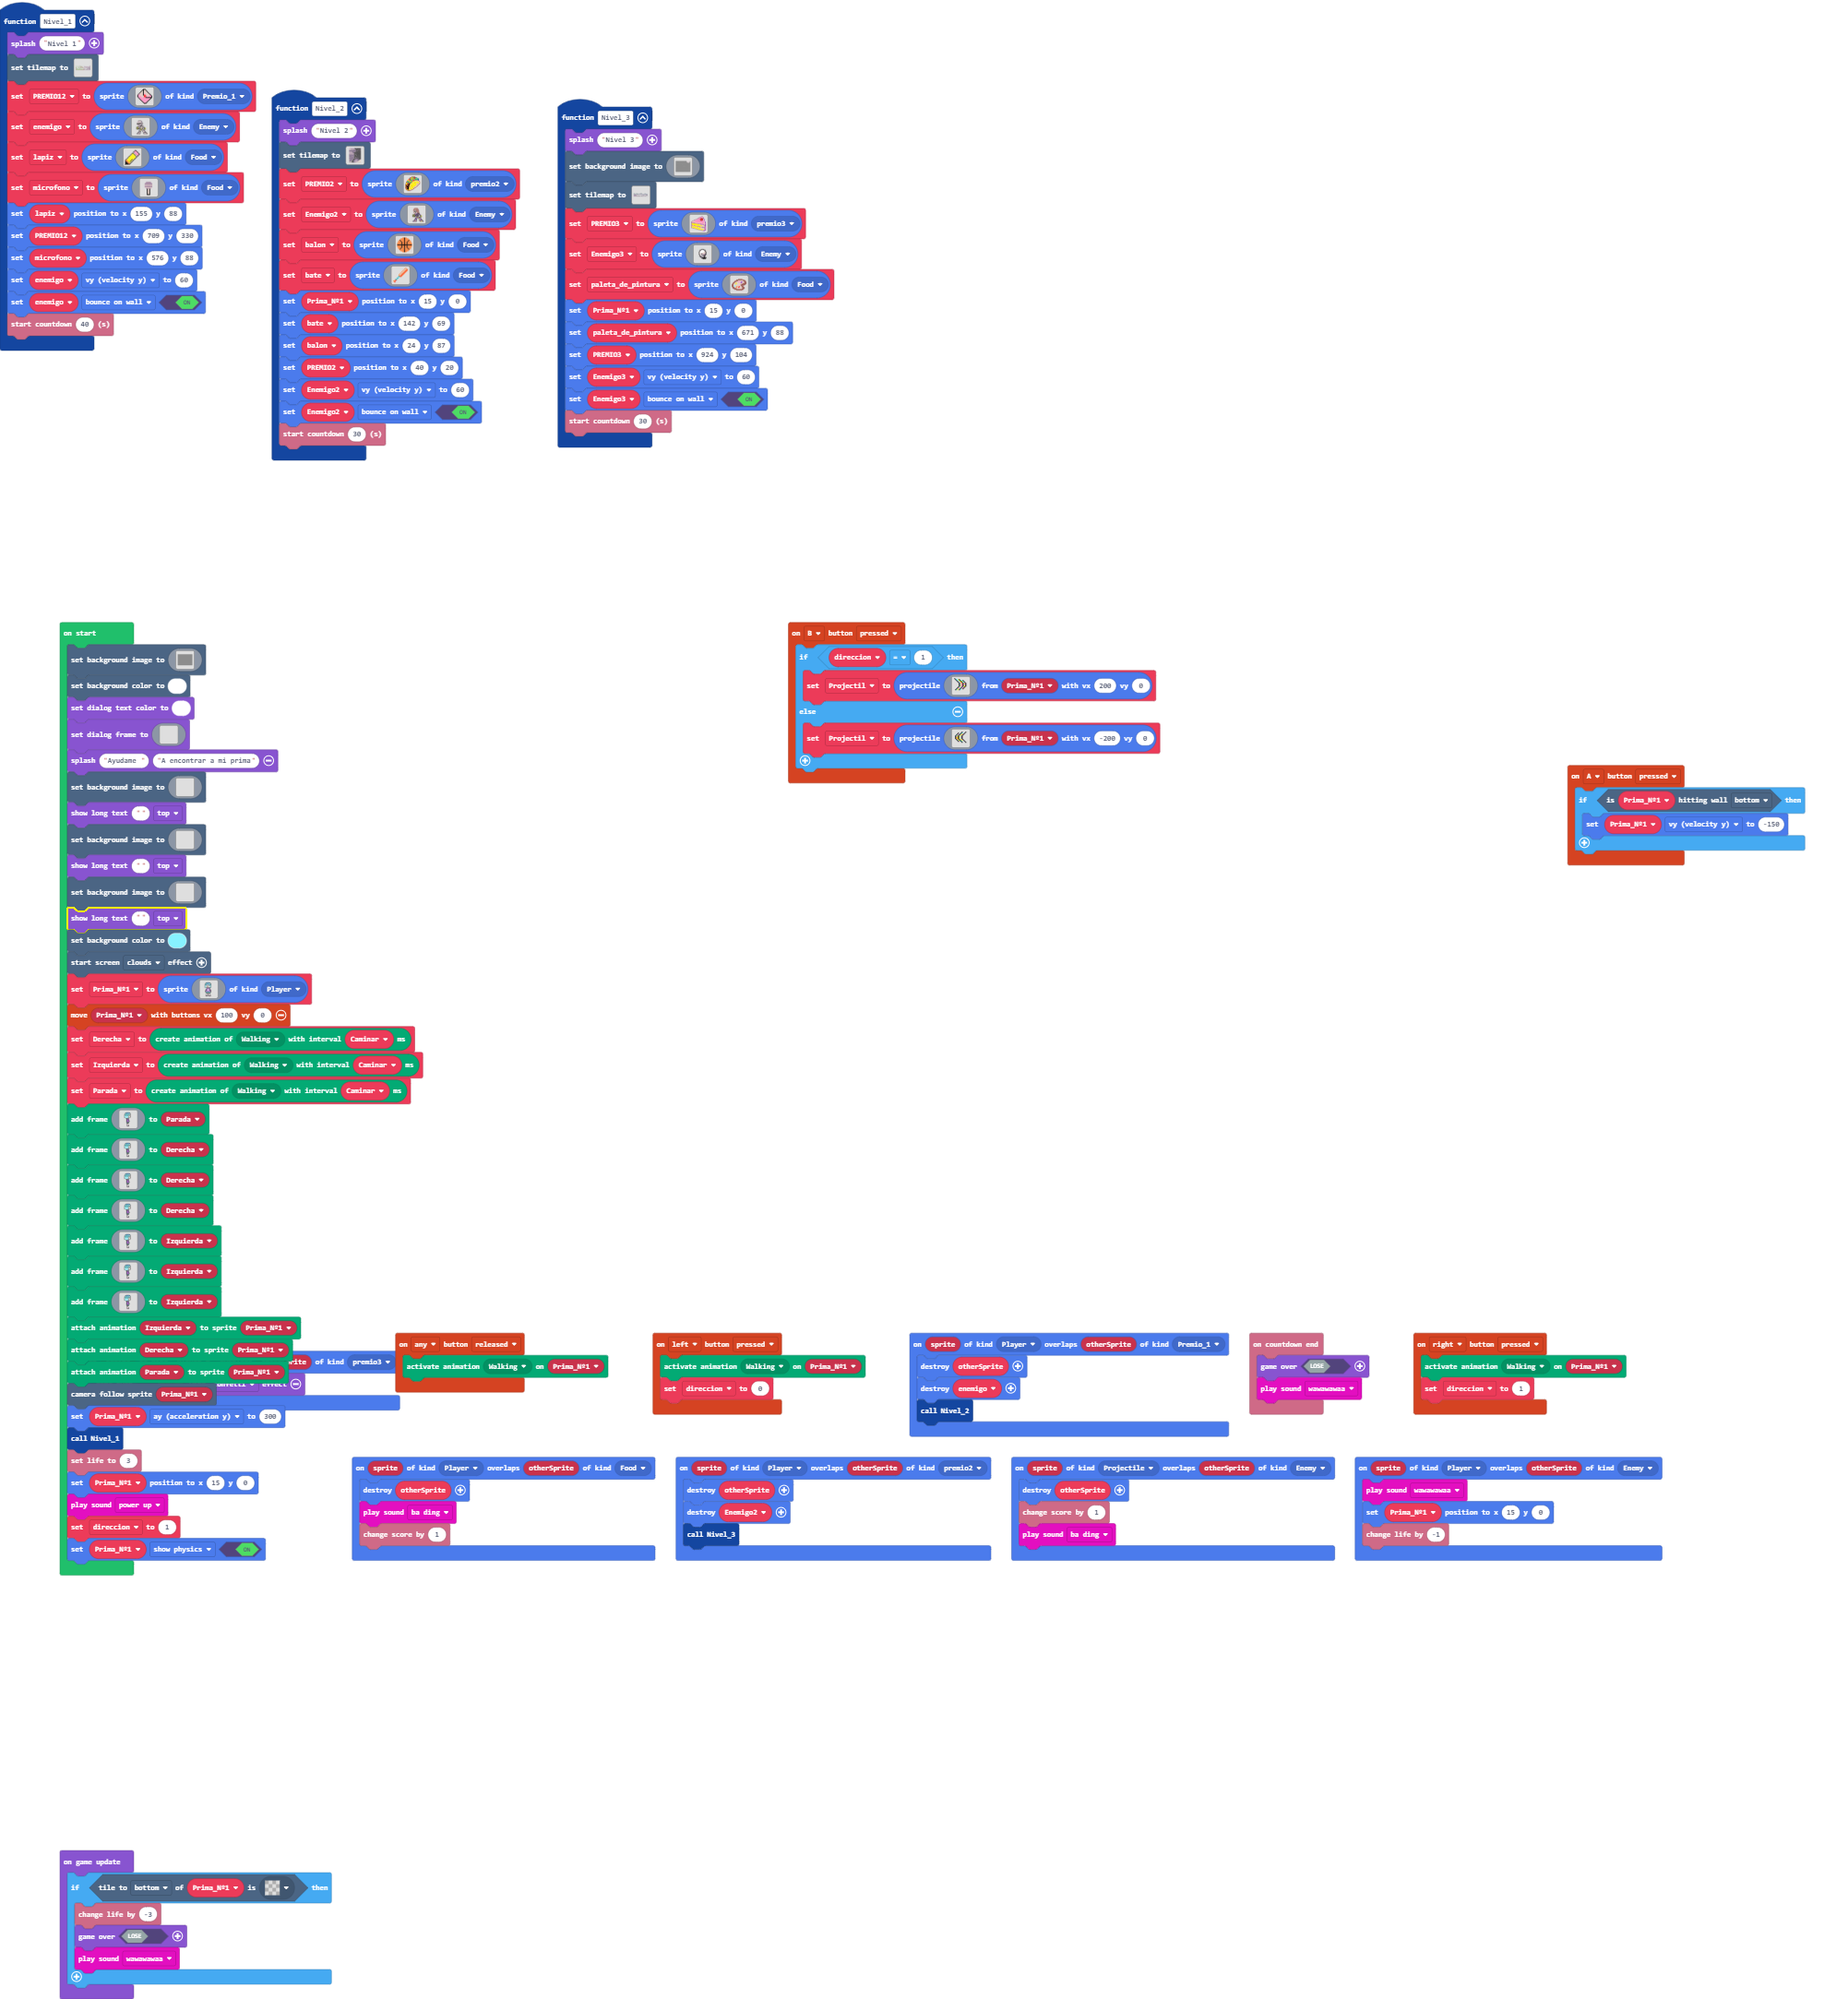
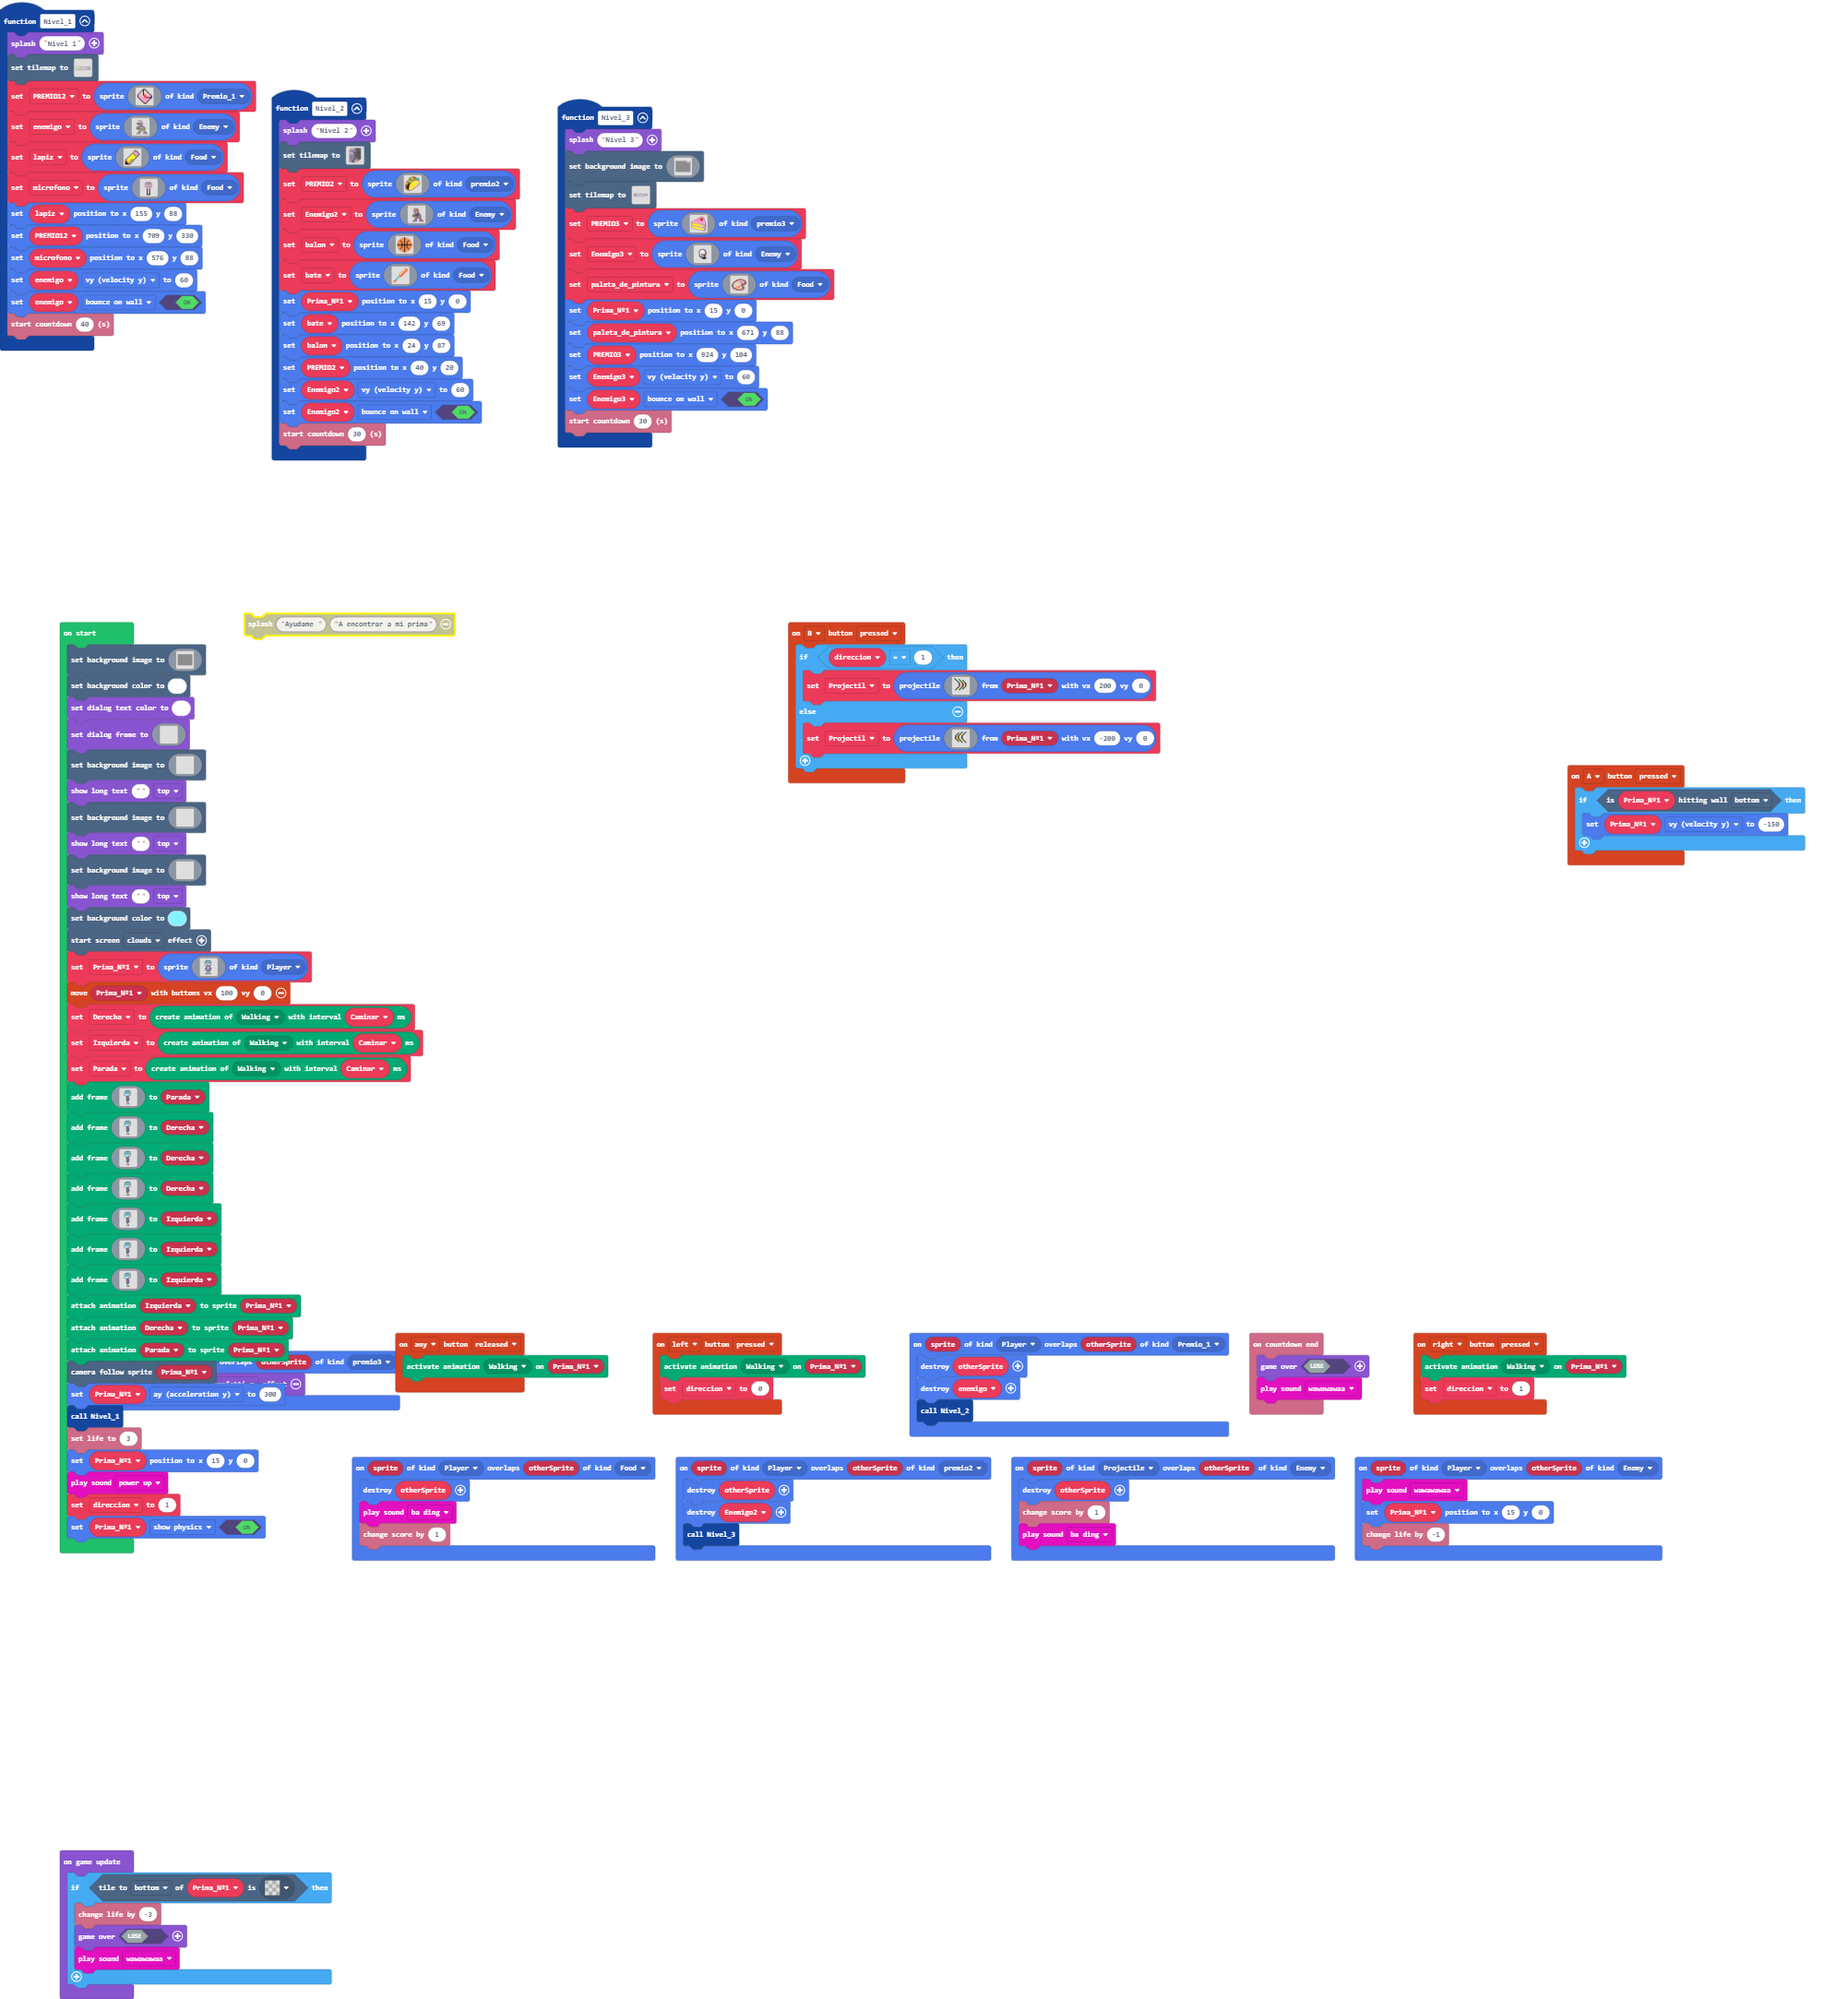
Update main.blocks, main.ts

Changed region(s): [[0.0312, 0.371, 0.2492, 0.8039], [0.1246, 0.3092, 0.2492, 0.3401]]

diff --git a/main.ts b/main.ts
@@ -836,7 +836,6 @@ game.setDialogFrame(img`
     . . . . . . . . . . . . . . . 
     . . . . . . . . . . . . . . . 
     `)
-game.splash("Ayudame ", "A encontrar a mi prima")
 scene.setBackgroundImage(img`
     . . . . . . . . . . . . . . . . . . . . . . . . . . . . . . . . . . . . . . . . . . . . . . . . . . . . . . . . . . . . . . . . . . . . . . . . . . . . . . . . . . . . . . . . . . . . . . . . . . . . . . . . . . . . . . . . . . . . . . . . . . . . . . . . . . . . . . . . . . . . . . . . . . . . . . . . . . . . . . . . 
     . . . . . . . . . . . . . . . . . . . . . . . . . . . . . . . . . . . . . . . . . . . . . . . . . . . . . . . . . . . . . . . . . . . . . . . . . . . . . . . . . . . . . . . . . . . . . . . . . . . . . . . . . . . . . . . . . . . . . . . . . . . . . . . . . . . . . . . . . . . . . . . . . . . . . . . . . . . . . . . . 
